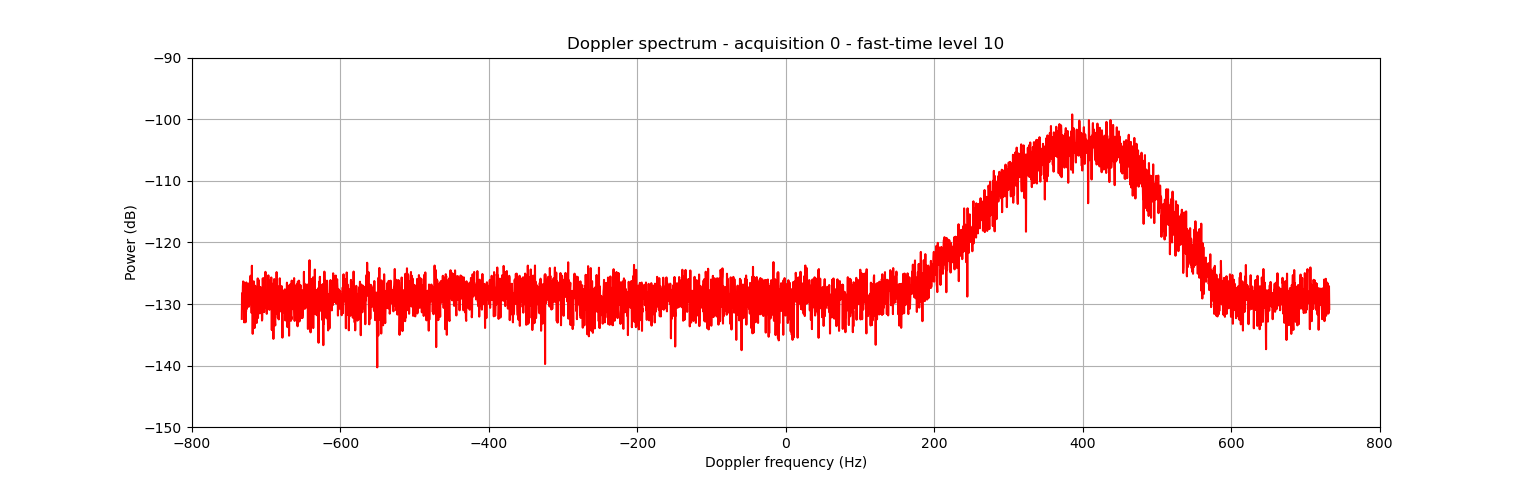
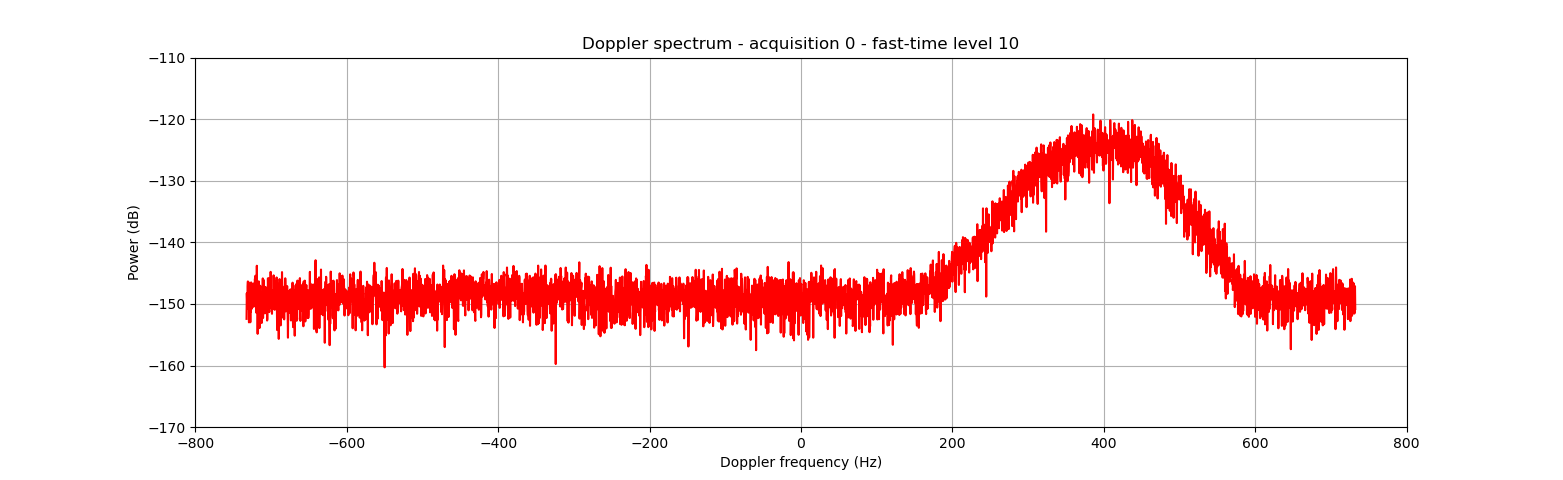
-Progress on ROXI.

diff --git a/docs/TP_ROXI.md b/docs/TP_ROXI.md
@@ -125,17 +125,7 @@ spectrum_0_10 = np.abs(np.fft.fft(mat_iq[0][10]))/len(slow_time_axis)
 ~~~
 
 ~~~
-spectrum_0_10_watts = (spectrum_0_10**2)/50
-~~~
-
-~~~
-plt.figure()
-plt.plot(frequency_axis,spectrum_0_10_watts,'r-')
-plt.xlabel('Doppler frequency (Hz)')
-plt.ylabel('Power (W)')
-plt.title('Doppler spectrum - acquisition 0 - fast-time level 10')
-plt.grid()
-plt.show()
+spectrum_0_10_watts = ((spectrum_0_10/np.sqrt(2))**2)/50
 ~~~
 
 ### FFTshift et dB
@@ -159,11 +149,15 @@ plt.grid()
 plt.show()
 ~~~
 
+![Exemple de spectre Doppler brut](img/ROXI_spectrum_raw_example.png)
+
 ## Réduction du bruit
 
 ### Bruit et SNR
 
 ### Intégration incohérente
+
+![Exemple de spectre Doppler intégré](img/ROXI_spectrum_integrated_example.png)
 
 ## Filtrage
 
